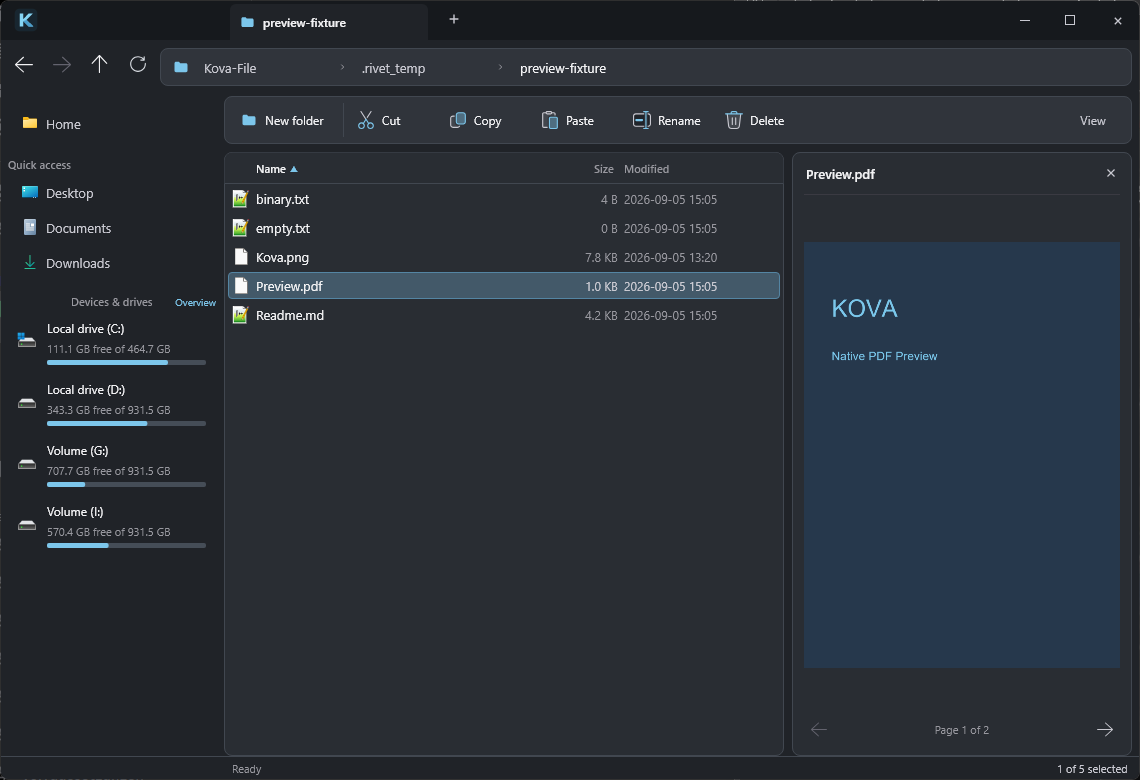
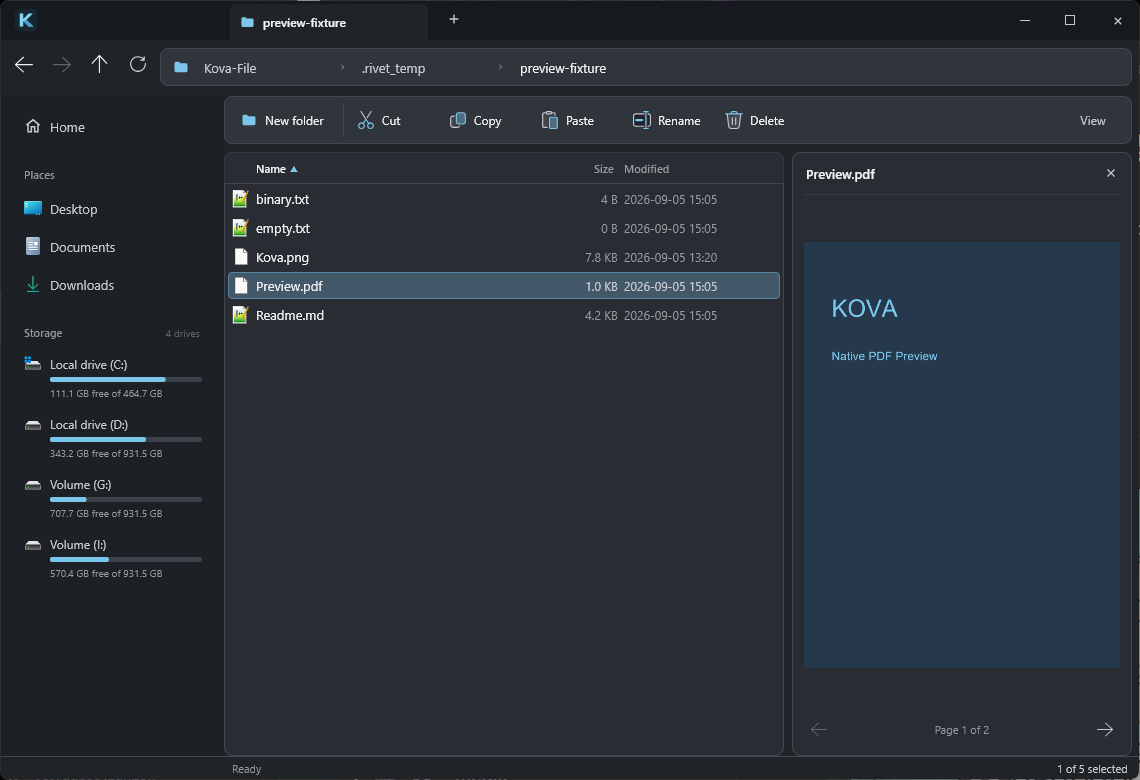
style: refine sidebar hierarchy, alignment and drive presentation

Changed region(s): [[0.0, 0.1538, 0.1842, 0.7385], [0.9825, 0.9846, 1.0, 1.0], [0.1535, 0.3692, 0.1842, 0.4]]

diff --git a/docs/VIEW_AND_PREVIEW.md b/docs/VIEW_AND_PREVIEW.md
@@ -34,8 +34,7 @@ file names beside the preview. This is a preview pane, not a second file pane.
 ## Storage and folder sizes
 
 **Home** is the start page when Kova launches without a folder argument and when
-creating a new tab. Click Home, **Overview** beside Devices & Drives, or
-**View > Drives and storage** to return to it.
+creating a new tab. Click **Home** or **View > Drives and storage** to return to it.
 The storage overview shows Windows volume labels, file system, free/total bytes
 and usage percentages. Its usage bars animate into place, unless animations are
 disabled. Double-click opens a drive; Back/Forward traverse Home and folders in
@@ -43,6 +42,12 @@ each tab's own history. Home is a virtual location with no filesystem target;
 file creation and paste are disabled there. Explicit folder launches bypass Home.
 Drive capacity is read on startup and refreshed with F5 on Home, off the UI thread.
 Arrow keys select a drive and Enter opens it.
+
+The sidebar groups navigation into **Places** and **Storage**. Section labels,
+icons and item names share consistent left anchors; Home uses a house glyph.
+Selected links use a slim accent marker and a muted surface. Drive capacity bars
+sit below the name, with free/total space beneath them. The full-width Home table
+provides the larger capacity comparison.
 
 **View > Calculate folder sizes** enables a separate worker for local fixed disks.
 The Size column fills with logical file-byte totals, including nested entries.
@@ -82,6 +87,9 @@ Real release mouse/keyboard verification on Windows 11:
 - The installed executable's hash matched the final release. Windows Shell Open
   launched it directly at the fixture folder; a separate no-argument launch
   opened Home. Folder registration status reported complete.
+- The refined sidebar was checked at both window sizes. Clicking Desktop and
+  the C: sidebar entry opened their real targets, and Back returned to Home.
+  Scrolling at 780 × 600 exposed the last drive's complete capacity line.
 - Folder fixtures displayed 0 B (empty), 3.0 KB (nested files), 2.0 MB (larger file)
   and ≥ 0 B for a directory containing a junction back to the fixture root.
   Size sorting placed the 3 KiB folder before the 2 MiB folder.
